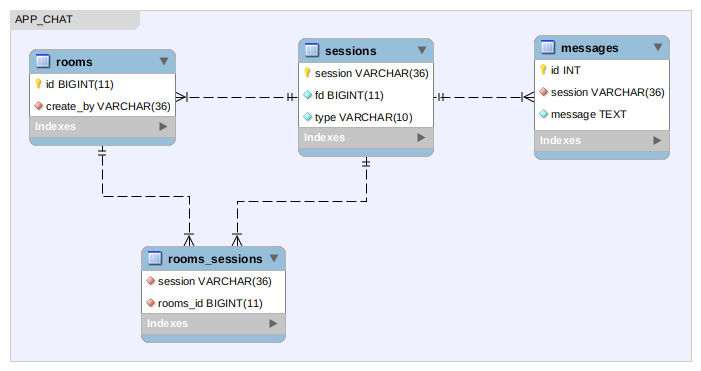
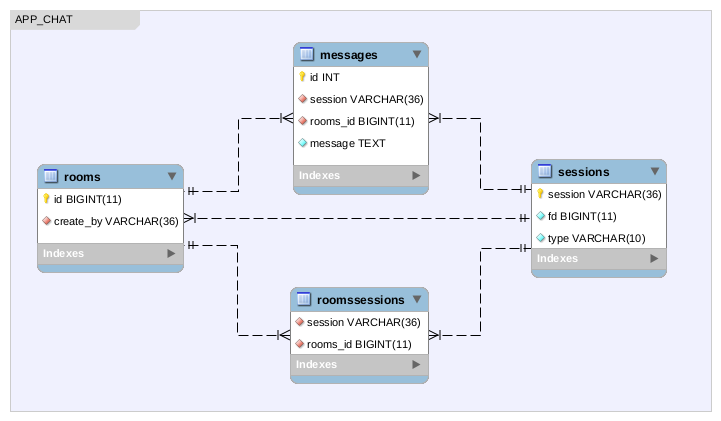
Ajustes

diff --git a/public/js/comp_chat_suport.js b/public/js/comp_chat_suport.js
@@ -33,39 +33,42 @@ $(document).ready(function() {
 				};
 
 				socket.onmessage = function(msg) {
-					console.log(msg.data);
+					// console.log(msg.data);
 					var data = JSON.parse(msg.data);
 
-					console.log("server:" + data.session);
-					console.log("local:" + localStorage.comp_chat_session);
+					console.log(data);
+					if(typeof data.rooms === 'undefined'){
+						// console.log("server:" + data.session);
+						// console.log("local:" + localStorage.comp_chat_session);
 
-					if (data.session) {
-						if (data.session != localStorage.comp_chat_session) {
-							localStorage.comp_chat_session = data.session;
+						if (data.session) {
+							if (data.session != localStorage.comp_chat_session) {
+								localStorage.comp_chat_session = data.session;
+							}
+						} else {
+							message(
+								'<li class="msg_container msg_guest">' +
+									data.msg +
+									'<img src="images/g.svg" alt="g" class="avatar"></li>'
+							);
 						}
-					} else {
-						message(
-							'<li class="msg_container msg_guest">' +
-								data.msg +
-								'<img src="images/g.svg" alt="g" class="avatar"></li>'
-						);
+					}else{
+						consulta_rooms(data.rooms);
 					}
 				};
 			} catch (exception) {
 				// message("<p>Error" + exception);
 			}
 
-			setInterval(consulta_rooms,1000);
 			
-			function consulta_rooms() {
-
+			function consulta_rooms(rooms) {
+				
 				$(".comp_chat .cli_list li").remove();
 				$(".comp_chat .cli_list").append('<li class="separator"><hr class="separator_hr" /></li>');
-				for (var i = 0; i < 9; i++) {
-					$(".comp_chat .cli_list").append('<li class="msg_container"><img src="images/g.svg" alt="g" class="avatar">Guest1</li>');
-				}
 				
-				console.log("FOI");
+				
+				rooms.forEach((v, i) => $(".comp_chat .cli_list").append('<li class="msg_container"><img src="images/g.svg" alt="g" class="avatar"> Guest '+v.id+'</li>'));
+			
 			}
 
 			function send() {

diff --git a/public/views/suport.html b/public/views/suport.html
@@ -28,24 +28,6 @@
 							<li class="separator">
 								<hr class="separator_hr" />
 							</li>
-							<li class="msg_container"><img src="images/g.svg" alt="g" class="avatar">Guest1</li>
-							<li class="msg_container"><img src="images/g.svg" alt="g" class="avatar">Guest2</li>
-							<li class="msg_container"><img src="images/g.svg" alt="g" class="avatar">Guest3</li>
-							<li class="msg_container"><img src="images/g.svg" alt="g" class="avatar">Guest4</li>
-							<li class="msg_container"><img src="images/g.svg" alt="g" class="avatar">Guest5</li>
-							<li class="msg_container"><img src="images/g.svg" alt="g" class="avatar">Guest6</li>
-							<li class="msg_container"><img src="images/g.svg" alt="g" class="avatar">Guest1</li>
-							<li class="msg_container"><img src="images/g.svg" alt="g" class="avatar">Guest2</li>
-							<li class="msg_container"><img src="images/g.svg" alt="g" class="avatar">Guest3</li>
-							<li class="msg_container"><img src="images/g.svg" alt="g" class="avatar">Guest4</li>
-							<li class="msg_container"><img src="images/g.svg" alt="g" class="avatar">Guest5</li>
-							<li class="msg_container"><img src="images/g.svg" alt="g" class="avatar">Guest6</li>
-							<li class="msg_container"><img src="images/g.svg" alt="g" class="avatar">Guest1</li>
-							<li class="msg_container"><img src="images/g.svg" alt="g" class="avatar">Guest2</li>
-							<li class="msg_container"><img src="images/g.svg" alt="g" class="avatar">Guest3</li>
-							<li class="msg_container"><img src="images/g.svg" alt="g" class="avatar">Guest4</li>
-							<li class="msg_container"><img src="images/g.svg" alt="g" class="avatar">Guest5</li>
-							<li class="msg_container"><img src="images/g.svg" alt="g" class="avatar">Guest6</li>
 						</ul>
 					</div>
 				<div class="form-msg">

diff --git a/app/WebsocketServer.php b/app/WebsocketServer.php
@@ -6,6 +6,7 @@ use App\Core\Db;
 use App\Models\Message;
 use App\Models\Session;
 use App\Models\Room;
+use App\Models\RoomsSession;
 use Swoole\Http\Request;
 use Phalcon\Security\Random;
 use Swoole\WebSocket\Frame;
@@ -78,55 +79,67 @@ class WebsocketServer
                 $session->session = $data->session;
             }
             
-            ###########################################################################
-            # SALVAR SESSAO
+            ###################################################################
+            // salva sessao
             $session->fd = $frame->fd;
             $session->type = $data->user;
             $session->save();
-            ###########################################################################
-            # VERIFICAR SE TEM ROMM
-            # SALVAR ROOM
-
-            $room = new Room();
-            $room->create_by = $data->session;
-
-            if (!count($room->find())) {
-                $room->save();
-            }
-            ###########################################################################
-
-            $start_fd = 0;
-            while (true) {
-                $conn_list = $server->connection_list($start_fd, 10);
-
-                
-                if ($conn_list === false or count($conn_list) === 0) {
-                    break;
-                }
-
-                $start_fd = end($conn_list);
-
-                foreach ($conn_list as $fd) {
-                    $return_msg = [];
-                    $return_msg['msg']      = $data->message;
-                    
-                    if ($frame->fd != $fd) {
-                        $server->push($fd, json_encode($return_msg));
-                    } else {
-                        $return_msg['session']  = $data->session;
-                        $server->push($fd, json_encode($return_msg));
-                    }
-                }
-            }
-            ###########################################################################
-            # SALVAR MSG's
+            ###################################################################
+            // verifica se tem room
+            // salva room
             if ($data->user == "guest") {
-                $msg = new Message();
-                $msg->session = $data->session;
-                $msg->message = $frame->data;
-                $msg->save();
+                $room = new Room();
+                $room->create_by = $data->session;
+
+                if (!count($room->find())) {
+                    $room->save();
+                }
             }
-            ###########################################################################
+            ###################################################################
+            // retorna msg para a session corrente
+            $return_msg = [];
+            $return_msg['msg']      = $data->message;
+            $return_msg['session']  = $data->session;
+            $server->push($frame->fd, json_encode($return_msg));
+
+            ###################################################################
+            // salva mensagens
+            if ($data->user == "guest") {
+                // busca room corrente
+                $result  = $room->find();
+                $room_id = $result[0]['id'];
+            } else {
+                // suport manda msg com id da room
+                # TODO: dependencia de interface
+                $room_id = 1;
+            }
+
+            $msg = new Message();
+            $msg->session   = $data->session;
+            $msg->message   = $frame->data;
+            $msg->rooms_id  = $room_id;
+            $msg->save();
+
+
+            // vincula session a room
+            $rooms_session = new RoomsSession();
+            $rooms_session->session = $data->session;
+            $rooms_session->rooms_id  = $room_id;
+
+            if (!count($rooms_session->find())) {
+                $rooms_session->save();
+            }
+
+            // naum enviar a session corrente para todos
+            unset($return_msg['session']);
+
+            // enviar msg para as session da room corrente
+            foreach ($rooms_session->buscaFdCorrente(1) as $result) {
+                if ($frame->fd != $result['fd']) {
+                    $server->push($result['fd'], json_encode($return_msg));
+                }
+            }
+            ###################################################################
         }
     }
     /**
@@ -140,5 +153,24 @@ class WebsocketServer
      */
     private function sendRooms($server, Frame $frame): void
     {
+        // busca sessions de suport
+        $session = new Session();
+        $session->type = 'suport';
+        $sessions = $session->find();
+
+        if (count($sessions)) {
+            $rooms = [];
+            foreach ((new Room())->find() as $room) {
+                unset($room[0], $room[1]);
+                $rooms[] = $room;
+            }
+
+            $return_msg = [];
+            $return_msg['rooms'] = $rooms;
+            
+            foreach ($session->find() as $result) {
+                $server->push($result['fd'], json_encode($return_msg));
+            }
+        }
     }
 }

diff --git a/app/Core/Model.php b/app/Core/Model.php
@@ -9,7 +9,7 @@ class Model
     /**
      * @var Db
      */
-    private $db;
+    public $db;
 
     /**
      * @var table
@@ -77,21 +77,30 @@ class Model
         $values = [];
 
         foreach ($this->fillable as $field) {
+            $fields[] = $field;
+
             if (isset($this->{$field})) {
-                $fields[] = $field;
                 $where[] = "$field = ?";
                 $values[] = $this->{$field};
             }
         }
 
+        
         $fields = implode(",", $fields);
-        $where = implode(",", $where);
 
         $tpl = $this->tpl[$action];
         $tpl = str_replace("%table%", $this->table, $tpl);
         $tpl = str_replace("%fields%", $fields, $tpl);
-        $tpl = str_replace("%where%", $where, $tpl);
 
+        if (!count($where)) {
+            $tpl = explode("WHERE", $tpl);
+            $tpl = $tpl[0];
+        } else {
+            $where = implode(" AND ", $where);
+            $tpl = str_replace("%where%", $where, $tpl);
+        }
+        
+        
         
         $sql = $this->db->prepare($tpl);
 

diff --git a/app/Models/RoomsSession.php b/app/Models/RoomsSession.php
@@ -1,0 +1,47 @@
+<?php
+
+namespace App\Models;
+
+use App\Core\Model;
+
+class RoomsSession extends Model
+{
+
+    protected $fillable = ['session', 'rooms_id'];
+    
+    /**
+     * Message constructor.
+     */
+    public function __construct()
+    {
+        parent::__construct();
+    }
+
+    
+    /**
+     * Retorna os Fd's da room (conexoes vinculadas)
+     *
+     * @param integer $room_id
+     * @return array
+     */
+    public function buscaFdCorrente(int $room_id): array
+    {
+        $select = "
+            SELECT
+                S.fd
+            FROM
+                roomssessions RS
+                    INNER JOIN
+                sessions S ON RS.session = S.session
+            WHERE
+                RS.rooms_id = ?;";
+
+        $sql = $this->db->prepare($select);
+        $sql->bindParam(1, $room_id);
+        $sql->execute();
+
+        // $sql->debugDumpParams();
+
+        return $sql->fetchAll();
+    }
+}

diff --git a/app/Models/Message.php b/app/Models/Message.php
@@ -7,7 +7,7 @@ use App\Core\Model;
 class Message extends Model
 {
 
-    protected $fillable = ['id', 'message', 'session'];
+    protected $fillable = ['id', 'message', 'session', 'rooms_id'];
     
     /**
      * Message constructor.
